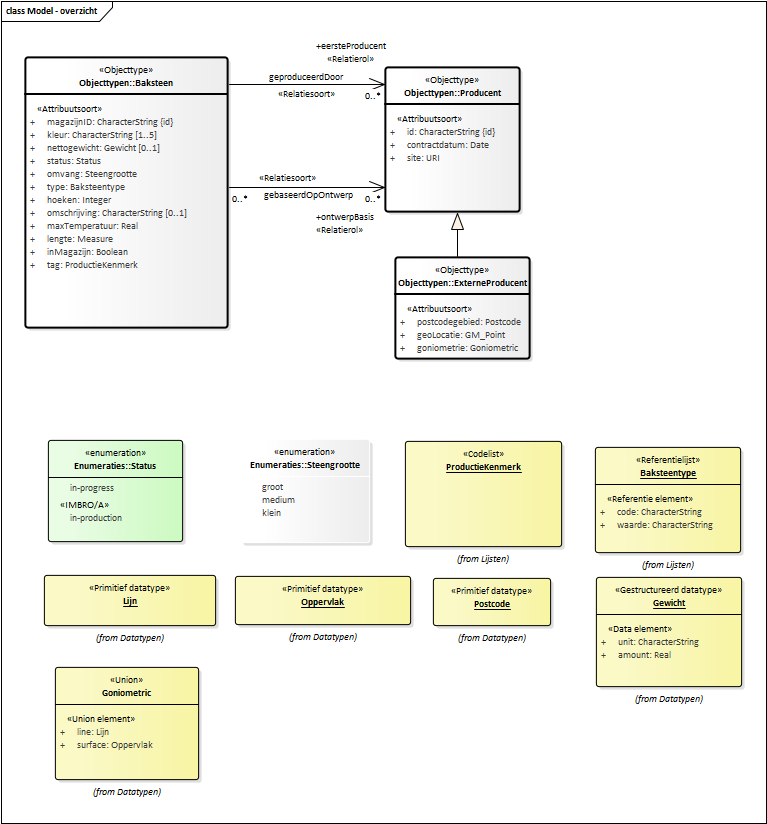
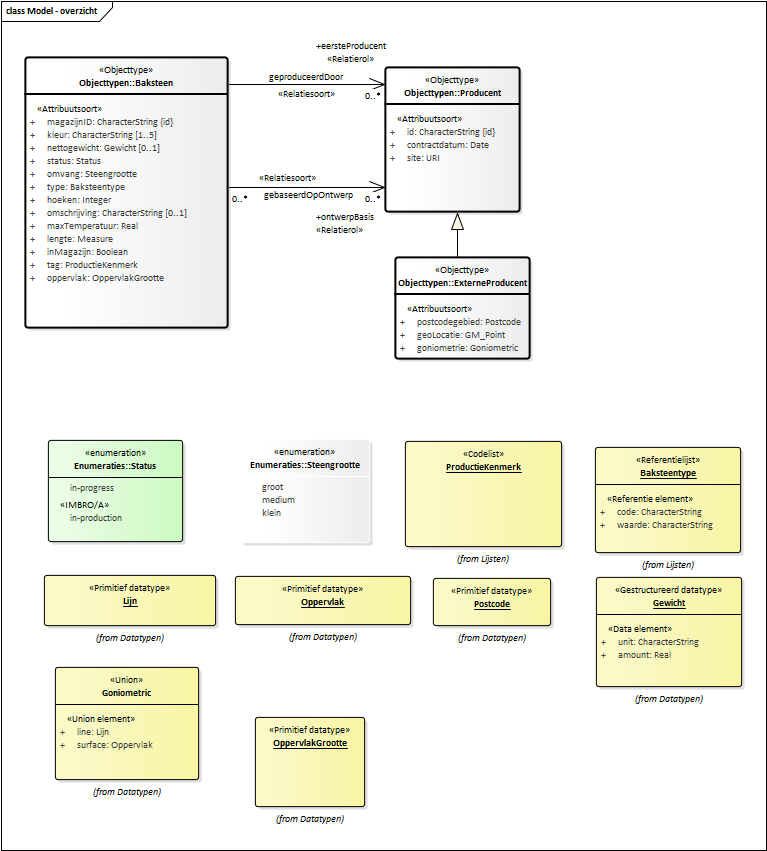
MIMCM-Bakstenenconceptueelmodel-1.0.0-2-20130318-20200201-145843

diff --git a/data/SAMPLE-cat.respec.html b/data/SAMPLE-cat.respec.html
@@ -2,16 +2,17 @@
 <section id="cat" class="normative">
    <h2>Gegevensdefinitie</h2>
    <p><b>Deze tekst is normatief.</b>
-      <!--MIMLM-Bakstenenlogischmodel-1.0.0-2-20130319-20200130-153801 imvertor 1.58.1--></p><a class="anchor" id="global_d14241e1"></a><section id="global_d14241e1">
-      <h3>Model   Bakstenen logisch model</h3>
-      <div class="imageinfo overview"><img src="data/Images/EAID_08513AA0_8A50_46c1_AD86_9B80D9A6AAE1.png" usemap="#imagemap-EAID_08513AA0_8A50_46c1_AD86_9B80D9A6AAE1" alt="Diagram "><map name="imagemap-EAID_08513AA0_8A50_46c1_AD86_9B80D9A6AAE1">
+      <!--MIMCM-Bakstenenconceptueelmodel-1.0.0-2-20130318-20200201-145843 imvertor 1.58.1--></p><a class="anchor" id="global_d11446e1"></a><section id="global_d11446e1">
+      <h3>Model   Bakstenen conceptueel model</h3>
+      <div class="imageinfo overview"><img src="data/Images/EAID_08513AA0_8A50_46c1_AD86_9B80D9A6AAE1.png" usemap="#imagemap-EAID_08513AA0_8A50_46c1_AD86_9B80D9A6AAE1" alt="Diagram Overzicht van alle constructies in dit conceptuele model."><map name="imagemap-EAID_08513AA0_8A50_46c1_AD86_9B80D9A6AAE1">
             <area shape="rect" alt="Accountmanager" coords="795,277,945,379" href="#graph_EAID_29D6B892_B943_494c_94C7_A13DB031E998">
             <area shape="rect" alt="ExterneProducent" coords="385,257,520,307" href="#graph_EAID_E2C93214_90E2_4151_B719_7BB8CDF8679F">
             <area shape="rect" alt="Baksteen" coords="25,57,228,217" href="#graph_EAID_CF7C4448_E50C_4c7a_B1D0_C4FCB2EB1814">
             <area shape="rect" alt="Producent" coords="385,67,520,212" href="#graph_EAID_04EED45C_4D30_41b9_83EE_65237E1F8E27">
             <area shape="rect" alt="Deal" coords="785,57,940,126" href="#graph_EAID_77692663_02DC_482e_827D_F7D28AF607D8">
             <area shape="rect" alt="Contract" coords="975,177,1110,237" href="#graph_EAID_77987690_1141_457d_A33B_E1C7AA1EA812">
-            <area shape="rect" alt="Client" coords="595,157,772,227" href="#graph_EAID_DF955A82_3E49_4c9d_9C0C_74738600FE1B"></map><p><b>Model - overzicht</b></p>
+            <area shape="rect" alt="Client" coords="595,157,772,227" href="#graph_EAID_DF955A82_3E49_4c9d_9C0C_74738600FE1B"></map><p><b>Model - overzicht</b> — Overzicht van alle constructies in dit conceptuele model.
+         </p>
       </div>
    </section><a class="anchor" id="global_package_BaksteenProductie"></a><section id="global_package_BaksteenProductie">
       <h3>Domein   Baksteen productie</h3>
@@ -24,7 +25,8 @@
             <area shape="rect" alt="ExterneProducent" coords="395,257,530,359" href="#graph_EAID_E2C93214_90E2_4151_B719_7BB8CDF8679F">
             <area shape="rect" alt="Baksteen" coords="25,57,228,328" href="#graph_EAID_CF7C4448_E50C_4c7a_B1D0_C4FCB2EB1814">
             <area shape="rect" alt="ProductieKenmerk" coords="405,441,562,547" href="#graph_EAID_4D78F0AD_88ED_44ef_9A76_163426CD74D1">
-            <area shape="rect" alt="Producent" coords="385,67,520,212" href="#graph_EAID_04EED45C_4D30_41b9_83EE_65237E1F8E27"></map><p><b>Model - overzicht</b> — Overzicht van alle constructies in dit model voor bakstenen en hun producenten.
+            <area shape="rect" alt="Producent" coords="385,67,520,212" href="#graph_EAID_04EED45C_4D30_41b9_83EE_65237E1F8E27">
+            <area shape="rect" alt="OppervlakGrootte" coords="255,717,365,807" href="#graph_EAID_8D034A6D_37F7_4765_9CFF_FE3DF59A8340"></map><p><b>Model - overzicht</b> — Overzicht van alle constructies in dit model voor bakstenen en hun producenten.
          </p>
       </div>
       <section id="">
@@ -268,6 +270,22 @@
                      </td>
                      <td>
                         <a class="link" href="#global_class_BaksteenProductie_ProductieKenmerk">ProductieKenmerk</a>
+                        
+                     </td>
+                     <td>1</td>
+                  </tr>
+                  <tr>
+                     <td>
+                        <a class="link" href="#detail_attribute_BaksteenProductie_Baksteen_oppervlak">oppervlak</a>
+                        
+                     </td>
+                     <td>
+                        
+                        <p>De oppervlakte van de steen.</p>
+                        
+                     </td>
+                     <td>
+                        <a class="link" href="#global_class_BaksteenProductie_OppervlakGrootte">OppervlakGrootte</a>
                         
                      </td>
                      <td>1</td>
@@ -830,6 +848,45 @@
          
       </section>
       <section id="">
+         <h4>Primitieve datatypen   </h4>
+         <a class="anchor" id="graph_EAID_8D034A6D_37F7_4765_9CFF_FE3DF59A8340"></a><a class="anchor" id="global_class_BaksteenProductie_OppervlakGrootte"></a><section id="global_class_BaksteenProductie_OppervlakGrootte">
+            <h5>Primitief datatype   OppervlakGrootte</h5>
+            
+            <table style="width: 100%;">
+               <tbody></tbody>
+            </table>
+            
+            <h6>Overzicht relaties  </h6>
+            
+            
+            <table style="width: 100%;">
+               <colgroup style="width: 50%;"></colgroup>
+               <colgroup style="width: 50%;"></colgroup>
+               <tbody>
+                  <tr>
+                     <th>Supertype relaties</th>
+                     <th>Supertype definitie</th>
+                  </tr>
+                  <tr>
+                     <td>
+                        OppervlakGrootte
+                        is specialisatie van
+                        
+                        <a class="external-link" href="">Measure</a>
+                        
+                        
+                     </td>
+                     <td></td>
+                  </tr>
+               </tbody>
+            </table>
+            
+            
+         </section>
+         
+         
+      </section>
+      <section id="">
          <h4>Codelijsten   </h4>
          
          <table style="width: 100%;">
@@ -1388,6 +1445,54 @@
                   </table>
                   
                </div>
+               <a class="anchor" id="detail_attribute_BaksteenProductie_Baksteen_oppervlak"></a><div class="deepheader" id="detail_attribute_BaksteenProductie_Baksteen_oppervlak">
+                  <h7>  <a href="#global_class_BaksteenProductie_Baksteen">Baksteen</a> oppervlak
+                  </h7>
+                  
+                  <table style="width: 100%;">
+                     <colgroup style="width: 30%;"></colgroup>
+                     <colgroup style="width: 70%;"></colgroup>
+                     <tbody>
+                        <tr>
+                           <th>Naam</th>
+                           <td>oppervlak</td>
+                        </tr>
+                        <tr>
+                           <th>Definitie</th>
+                           <td>
+                              
+                              <p>De oppervlakte van de steen.</p>
+                              
+                           </td>
+                        </tr>
+                        <tr>
+                           <th>Toelichting</th>
+                           <td>
+                              
+                              <p>Dit is de oppervlakte van de grootste zijde.</p>
+                              
+                           </td>
+                        </tr>
+                        <tr>
+                           <th>Mogelijk geen waarde</th>
+                           <td>Nee</td>
+                        </tr>
+                        <tr>
+                           <th>Indicatie kardinaliteit</th>
+                           <td>1</td>
+                        </tr>
+                        <tr>
+                           <th>Formaat</th>
+                           <td>OppervlakGrootte</td>
+                        </tr>
+                        <tr>
+                           <th>Indicatie afleidbaar</th>
+                           <td>Zie package</td>
+                        </tr>
+                     </tbody>
+                  </table>
+                  
+               </div>
                <a class="anchor" id="detail_association_BaksteenProductie_Baksteen_ontwerpBasis"></a><div class="deepheader" id="detail_association_BaksteenProductie_Baksteen_ontwerpBasis">
                   <h7>Relatiesoort details  <a href="#global_class_BaksteenProductie_Baksteen">Baksteen</a> gebaseerdOpOntwerp
                   </h7>
@@ -1914,11 +2019,12 @@
       </section>
    </section><a class="anchor" id="global_package_Contract"></a><section id="global_package_Contract">
       <h3>Domein   Contract</h3>
-      <div class="imageinfo overview"><img src="data/Images/EAID_B1512B43_5B77_4c7c_9574_232179AC3035.png" usemap="#imagemap-EAID_B1512B43_5B77_4c7c_9574_232179AC3035" alt="Diagram "><map name="imagemap-EAID_B1512B43_5B77_4c7c_9574_232179AC3035">
+      <div class="imageinfo overview"><img src="data/Images/EAID_B1512B43_5B77_4c7c_9574_232179AC3035.png" usemap="#imagemap-EAID_B1512B43_5B77_4c7c_9574_232179AC3035" alt="Diagram Overzicht van alle constructies in dit model voor contracten."><map name="imagemap-EAID_B1512B43_5B77_4c7c_9574_232179AC3035">
             <area shape="rect" alt="Accountmanager" coords="245,274,395,376" href="#graph_EAID_29D6B892_B943_494c_94C7_A13DB031E998">
             <area shape="rect" alt="Deal" coords="215,35,370,153" href="#graph_EAID_77692663_02DC_482e_827D_F7D28AF607D8">
             <area shape="rect" alt="Contract" coords="436,181,571,270" href="#graph_EAID_77987690_1141_457d_A33B_E1C7AA1EA812">
-            <area shape="rect" alt="Client" coords="25,184,202,304" href="#graph_EAID_DF955A82_3E49_4c9d_9C0C_74738600FE1B"></map><p><b>Model - overzicht</b></p>
+            <area shape="rect" alt="Client" coords="25,184,202,304" href="#graph_EAID_DF955A82_3E49_4c9d_9C0C_74738600FE1B"></map><p><b>Model - overzicht</b> — Overzicht van alle constructies in dit model voor contracten.
+         </p>
       </div>
       <section id="">
          <h4>Entiteittypen   </h4>
@@ -2675,7 +2781,7 @@
 <section id="lis" class="normative">
    <h2>Inhoud van waardenlijsten</h2>
    <p><b>Deze tekst is normatief.</b>
-      <!--MIMLM-Bakstenenlogischmodel-1.0.0-2-20130319-20200130-153801 imvertor 1.58.1--></p>
+      <!--MIMCM-Bakstenenconceptueelmodel-1.0.0-2-20130318-20200201-145843 imvertor 1.58.1--></p>
    <section id="">
       <h3>   </h3><a class="anchor" id="graph_EAID_705E4D02_09C2_4812_AA1F_D80E12C89EE0"></a><a class="anchor" id="detail_class_BaksteenProductie_Baksteentype"></a><section id="detail_class_BaksteenProductie_Baksteentype">
          <h4>   Baksteentype</h4>
